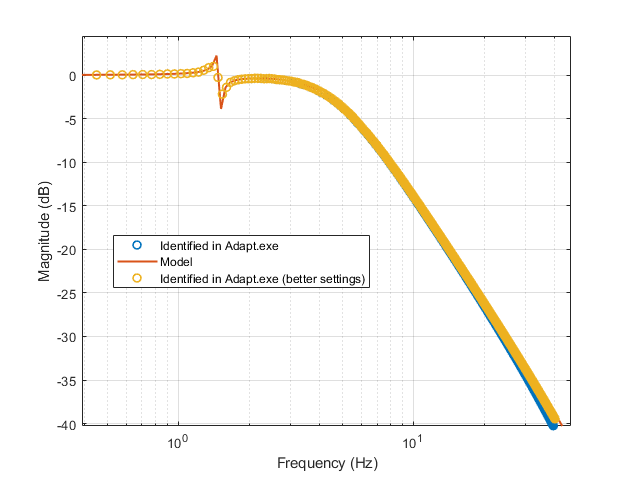
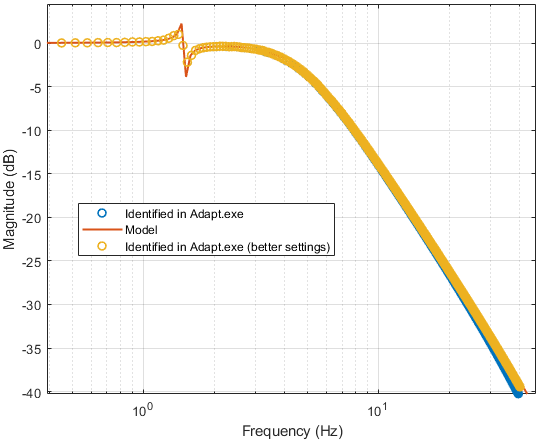
commit

diff --git a/Report/LaTeX_Controlo_de_Plataforma_Sismica/main.tex b/Report/LaTeX_Controlo_de_Plataforma_Sismica/main.tex
@@ -575,20 +575,21 @@ According to \cite{williams2001}, the most widely used experimental methods in t
 
 Real-time hybrid simulation (RTHS) and substructural shake table testing are of special interest since they allow for the evaluation of large and/or complex structures by combining physical and numerical models of substructures, which enhances testing flexibility, enabling improved studies of high-frequency and/or nonlinear behaviours, while also reducing experimental costs. Real-time hybrid simulation method is illustrated in figure \ref{fig_hybrid} for 3 different configurations \citep{Tang2020Performance}. In \cite{Lin2024Implementation} a different configuration is implemented, resorting to onboard actuators, as shown in figure \ref{fig_onboard_actuators}, in order to circumvent the additional stroke length, velocity, and acceleration requirements for ground-based actuators, and the control challenges they pose.
 
-\begin{figure}
-    \centering
-    \includegraphics[width=\linewidth]{Lit_Review/stc2611-fig-0001-m.jpg}
-    \caption{Shaking table-based real-time dynamic hybrid testing systems: (a) upper, (b) middle and (c) lower portion tested physically. Abbreviations: NS, numerical substructure; PS, physical substructure \citep{Tang2020Performance}}
-    \label{fig_hybrid}
-\end{figure}
-
-\begin{figure}
+\begin{figure}[H]
     \centering
     \includegraphics[width=\linewidth]{Lit_Review/onboard_actuators.jpg}
     \caption{Shake table RTHS with (a) ground-based actuators and (b) onboard actuators. \citep{Lin2024Implementation}}
     \label{fig_onboard_actuators}
 \end{figure}
 
+\begin{figure}[H]
+    \centering
+    \includegraphics[width=\linewidth]{Lit_Review/stc2611-fig-0001-m.jpg}
+    \caption{Shaking table-based real-time dynamic hybrid testing systems: (a) upper, (b) middle and (c) lower portion tested physically. Abbreviations: NS, numerical substructure; PS, physical substructure \citep{Tang2020Performance}}
+    \label{fig_hybrid}
+\end{figure}
+
+%\pagebreak
 \section{Shaking Table Control Strategies}
 
 Shaking-table control strategies typically begin with the offline generation of a drive signal using the inverse model of the system and the desired reference motion. This drive signal is then applied to the system, which usually incorporates a linear controller, most commonly a Proportional-Integral-Derivative (PID) controller, using actuator feedback signals (displacement, velocity, or acceleration) \citep{williams2001}, and that is the basis of the OLI control strategy. Indeed, PID controllers remain widely used in most test systems, including shaking-table and hybrid testing platforms \citep{tekeste2021}. However, alternative control approaches have been proposed in the literature, including: Acceleration Trajectory Tracking Control (ATTC) \citep{nakata2010}; Displacement feedforward-feedback controller using an optimal controller \citep{phillips2012}; Model-based feedforward-feedback controller for acceleration tracking \citep{phillips2014}; Minimal control synthesis (MCS) strategy, which is feedback-feedforward adaptive control strategy including the inverse model in line with the reference signal \citep{stoten2001}.
@@ -598,9 +599,9 @@ Shaking-table control strategies typically begin with the offline generation of 
 
 Recent works developed in this field show that advanced control methods such as active disturbance rejection control (ADRC) with adaptive model-based state estimators (AMSE) and extended state observer (ESO), as applied in \cite{Lei2023Disturbance} and illustrated in figure \ref{fig_ADRC-AMSE}, and also nonlinear signal-based control \citep{Enokida2019Nonlinear}, have significantly improved the accuracy and stability of shaking table operations, especially for reproducing complex seismic waveforms and handling nonlinear structural responses. In \cite{Tian2021Offline}, the use of offline iterative control combined with frequency-splitting techniques enabled double-layer shaking tables to achieve both high payload capacity and a wide frequency bandwidth. This advancement allows for the effective testing of high-rigidity structures — such as dams and nuclear power plant facilities - which are characterised by high fundamental frequencies.  Meanwhile, in the development of a budget-focused testing facility, \cite{Parajuli2024Development} adopted a brushed DC motor as the shaking table actuator and applied a proportional-derivative (PD) controller to achieve motion control, offering a cost-effective alternative to more complex systems.
 
-\begin{figure}
+\begin{figure}[H]
     \centering
-    \includegraphics[width=0.7\linewidth]{Lit_Review/ADRC_AMSE.jpg}
+    \includegraphics[width=\linewidth]{Lit_Review/ADRC_AMSE.jpg}
     \caption{Structure diagram of AMSE-ADRC \citep{Lei2023Disturbance}}
     \label{fig_ADRC-AMSE}
 \end{figure}
@@ -632,14 +633,14 @@ In \cite{Zhang2016Robust}, an adaptive sliding mode controller with a reaching l
 
 In \cite{Ryu2017Real-time}, a nonlinear tracking controller based on feedback linearization combined with an extended Kalman filter enabled real-time control of shaking tables subjected to nonlinear hysteretic structural behaviour, maintaining motion fidelity at specific structural locations. %5
 
-\begin{figure}%[H]
-\begin{subfigure}{0.48\textwidth}
+\begin{figure}[H]
+\begin{subfigure}{0.49\textwidth}
     \centering
     \includegraphics[width=\textwidth]{Lit_Review/1-s2.0-S0019057817305037-gr6_lrg.jpg}
     \caption{Complete control system}
 \end{subfigure}
 \hfill
-\begin{subfigure}{0.49\textwidth}
+\begin{subfigure}{0.50\textwidth}
     \centering
     \includegraphics[width=\textwidth]{Lit_Review/1-s2.0-S0019057817305037-gr5_lrg.jpg}
     \caption{Servo controller}
@@ -659,11 +660,12 @@ The hydraulic and control system original supplier for LNEC's shaking tables, MT
     \item Three-Variable Control (TVC), whose block diagram is depicted in figure \ref{fig_TVC}, also known in control theory literature as state variable control \citep{ogata2010}, which combines the displacement, velocity and acceleration feedback \citep{williams2001}. In this implementation only one state variable is the primary control variable, with the others serving only as compensation signals to improve damping and stability;
     \item Adaptive Harmonic Cancellation (AHC), whose block diagram is depicted in figure \ref{fig_AHC}, is suitable for sinusoidal signals (fixed frequency or sweep). This method greatly reduces harmonic distortion of the response of a control system driven by a sinusoidal command. It measures the harmonic distortion directly and adapts in real time the cancelling waveform applied directly to the control system input; 
     \item Adaptive Inverse Control (AIC), whose block diagram is depicted in Figure \ref{fig_AIC}, was presented in \cite{widrow2007} as a control strategy suitable for non-sinusoidal signals in linear systems. This method consists of a control compensation technique that augments a fixed-gain controller to correct closed-loop gain and phase irregularities, thereby improving control fidelity. In addition, in multichannel control systems with cross-coupled dynamics, it significantly reduces cross-coupling disturbances between control channels. The method measures the control system dynamics directly and modifies the control compensation accordingly in real time, making it possible to adapt to changing system dynamics; 
+\pagebreak
     \item Amplitude/Phase Control (APC), whose block diagram is depicted in figure \ref{fig_APC}, is suitable for sinusoidal signals (fixed frequency and sweep) and predominantly linear systems, and often used in conjunction with AHC to reduce distortions in nonlinear systems. This is a control compensation technique that augments a fixed-gain controller to correct for closed-loop amplitude and phase irregularities in order to improve control fidelity. It measures control system dynamics directly and modifies the control compensation accordingly in real time, making it possible to adapt to changing system dynamics; 
     \item Online Iteration (OLI), whose block diagram is depicted in figure \ref{fig_OLI}, is suitable for nonlinear systems and non-sinusoidal waveforms. This is a control technique that repeatedly modifies the command input to a control system on an individual sample-by-sample basis until the control system response is almost a perfect replica of the original desired command. This last strategy was deemed the most appropriate and versatile for earthquake engineering applications, as structures may exhibit nonlinear behaviour or sustain damage during testing, and is the control method currently implemented at LNEC's ST3D.
 \end{itemize}
 
-\begin{figure}%[H]
+\begin{figure}[H]
     \centering
     \includegraphics[width=0.9\textwidth]{MTSsystems/OLI.png}
     \caption{Online Iteration (OLI)}
@@ -1962,7 +1964,7 @@ Initially the simulations were run with the controller set as $G_c(s)=129.93$ V/
 % \begin{equation} \label{eq_pidf_in_s}
 %     G_c(s) = K_p +  \frac{K_i}{s} +  \frac{K_d\cdot s}{T_f\cdot s + 1}
 % \end{equation}
-where the parameters $K_p, K_i, K_d$, and $T_f$, seen in table \ref{tab:pidf_params}, were computed using MATLAB's \textit{pidtune} function, with the tuning option \textit{'DesignFocus'} set to \textit{'reference-tracking'}. These results are labelled as "tuned" in figures \ref{fig_response_spectrum_of_3} through to \ref{fig_Platen_Displacement_Tracking_Error}. The code implementation can be found at the following GitHub repository \href{https://github.com/c-radicallis/Controlo_Plataforma_Sismica/blob/main/uniaxial_table_model/simulation_and_plotting.m}{location}.
+where the parameters $K_p, K_i, K_d$, and $T_f$, seen in table \ref{tab:pidf_params}, were computed using MATLAB's \textit{pidtune} function, with the tuning option \textit{'DesignFocus'} set to \textit{'reference-tracking'}, and target cutoff frequency set to 20Hz. These results are labelled as "tuned" in figures \ref{fig_response_spectrum_of_3} through to \ref{fig_Platen_Displacement_Tracking_Error}. The code implementation can be found at the following GitHub repository \href{https://github.com/c-radicallis/Controlo_Plataforma_Sismica/blob/main/uniaxial_table_model/simulation_and_plotting.m}{location}.
 
 \begin{table}[H]
     \centering
@@ -2179,17 +2181,14 @@ For the high modal frequencies in figure \ref{fig_high_modal_freqs}, the respons
 \subsection{Optimal Control}  \label{sec_Optimal_Control}
 
 \subsubsection{ State Space Model} \label{section_ss_model}
-For the shaking table with a coupled 2-DoF system, the following state space model representation was adopted:
+For the shaking table with a coupled 2DOF system, the following state space representation was adopted, with the state vector $x(t) = [Q_{sv} ,\, F_p ,\, x_T ,\, x_1 ,\, x_2 ,\, \dot{x}_T ,\, \dot{x}_1 ,\, \dot{x}_2 ]^{T}$, and the control action being the signal to the servo-valve $u(t) = i_{sv}$: 
+% \begin{align}
+% \dot{x}(t)  &=  A \cdot x(t) + B \cdot u(t) \\
+% y(t) &= C\cdot x(t) + D\cdot u(t)
+% \end{align} 
+
 \begin{align}
-\dot{x}(t)  &=  A \cdot x(t) + B \cdot u(t) \\
-y(t) &= C\cdot x(t) + D\cdot u(t)
-\end{align}
-With $x(t)$ being the state vector:
-\begin{equation}
-x = [Q_{sv} ,\, F_p ,\, x_T ,\, x_1 ,\, x_2 ,\, \dot{x}_T ,\, \dot{x}_1 ,\, \dot{x}_2 ]^{T}
-\end{equation}
-And the control action $u(t)$ (which is the signal to the servo-valve $i_{sv}$), the state equations are:
-\begin{align}
+    \hspace{-3mm}
     \begin{bmatrix} 
         \dot{Q}_{sv} \\[6pt]
         \dot{F}_p \\[6pt]
@@ -2232,16 +2231,16 @@ And the control action $u(t)$ (which is the signal to the servo-valve $i_{sv}$),
     \end{bmatrix}
     \cdot i_{sv}
 \end{align}
-And the output equation for the platen position $x_T$, it results:
+With the output equation:  
 \begin{equation}
-y(t) = C\cdot x(t) + D\cdot u(t) = x_T \Longrightarrow C = [0\, 0\, 1\, 0\, 0\, 0\, 0\, 0] \, ,  D = 0
+y(t) = [0\, 0\, 1\, 0\, 0\, 0\, 0\, 0] \cdot [Q_{sv} ,\, F_p ,\, x_T ,\, x_1 ,\, x_2 ,\, \dot{x}_T ,\, \dot{x}_1 ,\, \dot{x}_2 ]^{T} = x_T
 \end{equation}
 
 \subsubsection{Evaluating Controllability \& Observability}
 For the above system, controllability and observability matrices were built in MATLAB with \emph{ctrb} and \emph{obsv} commands while using variable precision arithmetic (\emph{vpa}) to evaluate each element to ten thousand significant digits, and were verified to be full rank, thereby implying the existence of an optimal control law.
 
 \subsubsection{LQI Controller}
-For the tracking loop shown in figure \ref{fig_LQI_loop}, where \emph{sys} is the state space model presented in section \ref{section_ss_model}:
+For the tracking loop shown in figure \ref{fig_LQI_loop}, where \emph{sys} is the state space model presented in section \ref{section_ss_model}: \vspace{-5mm}
 \begin{figure}[H]
     \centering
      \includegraphics[width=0.5\linewidth]{LQI/LQI_loop.png}
@@ -2298,22 +2297,20 @@ The optimal state feedback control law $u(t) = K \cdot x_{aug}(t)$ which minimiz
 \begin{equation}\label{eq_LQI_cost_function}
      J(u) = \int ^{\infty}_0 (x_{aug}^{T}(t) Q\,x_{aug}(t) + u^{T}(t) R\, u(t))\, dt 
 \end{equation} 
-was computed using MATLAB \emph{lqi} function, for $R=10^{-9}$ and different $Q$ matrices, for the augmented system, where the state vector $x_{aug}(t) = \left[x(t) \, x_i(t) \right]^\intercal$ incorporates the state $x_i(t)$, which is defined as the integral of the tracking. The state weight matrix $Q$ had every element set to zero, except the entry corresponding to the integrated tracking error $x_i$, which was initially set to $10^3$, which resulted in a similar bandwidth to the tuned PID-F (figure \ref{fig_Bode_LQI_Qe3}), and then increased to $10^9$ (figure \ref{fig_Bode_LQI_Qe9}), for increased bandwidth, which, unlike with the large bandwidth PID-F controllers, the effect of the pole and zero (resonance and anti-resonance) observed on the low frequency was still highly smoothed, resulting in unitary gain at low frequencies, shown in figures \ref{fig_Bode_LQI_Qe9} through to \ref{fig_Platen_Displacement_Tracking_Error_LQI_Qe9}.
-
-The code implementation can be found at the following GitHub repository \href{https://github.com/c-radicallis/Controlo_Plataforma_Sismica/blob/main/uniaxial_table_model/LQR%20Servo/LQI_servo.m}{location}.
+was computed using MATLAB \emph{lqi} function, for $R=10^{-9}$ and different $Q$ matrices, for the augmented system, where the state vector $x_{aug}(t) = \left[x(t) \, x_i(t) \right]^\intercal$ incorporates the state $x_i(t)$, which is defined as the integral of the tracking. The state weight matrix $Q$ had every element set to zero, except the entry corresponding to the integrated tracking error $x_i$ (designated $Q_{x_i}$), which was initially set to $10^3$, which resulted in a similar bandwidth to the tuned PID-F (figure \ref{fig_Bode_LQI_Qe3}), and then increased to $10^9$ (figure \ref{fig_Bode_LQI_Qe9}), for increased bandwidth, which, unlike with the large bandwidth PID-F controllers, the effect of the pole and zero (resonance and anti-resonance) observed on the low frequency was still highly smoothed, resulting in unitary gain at low frequencies, shown in figures \ref{fig_Bode_LQI_Qe9} through to \ref{fig_Platen_Displacement_Tracking_Error_LQI_Qe9}. The code implementation can be found at the following GitHub repository \href{https://github.com/c-radicallis/Controlo_Plataforma_Sismica/blob/main/uniaxial_table_model/LQR%20Servo/LQI_servo.m}{location}.
     
 \begin{figure}[H]
 \begin{minipage}{0.49\textwidth}
     \centering
     \includegraphics[width=\linewidth]{LQI/Sim_Res_Qe3/Bode_of_G_xT_xref.png}
-    \caption{Bode plots of $G_ {xT/x_{\text{ref}}}(s)$ for the default controller, tuned PID-F, and optimal state-feedback controller with $Q=10^3$ (which results in a similar bandwidth to the tuned PID-F).}
+    \caption{Bode plots of $G_ {xT/x_{\text{ref}}}(s)$ for the default controller, tuned PID-F, and optimal state-feedback controller with $Q_{x_i}=10^3$ (which results in a similar bandwidth to the tuned PID-F).}
     \label{fig_Bode_LQI_Qe3} 
 \end{minipage}
 \hfill
 \begin{minipage}{0.49\textwidth}
     \centering
     \includegraphics[width=\linewidth]{LQI/Sim_Res_Qe9/Bode_of_G_xT_xref.png}
-    \caption{Bode plots of $G_ {xT/x_{\text{ref}}}(s)$ for the default controller, tuned PID-F, and optimal state-feedback controller with $Q=10^9$.}
+    \caption{Bode plots of $G_ {xT/x_{\text{ref}}}(s)$ for the default controller, tuned PID-F, and optimal state-feedback controller with $Q_{x_i}=10^9$.}
     \label{fig_Bode_LQI_Qe9}
 \end{minipage}
 \end{figure}
@@ -2391,7 +2388,7 @@ The code implementation can be found at the following GitHub repository \href{ht
 
 \subsubsection{LQG Servo Controller}\label{sec_LQG Servo Controller}
 
-The implementation of the optimal control law requires the availability of all the systems states. For the system under analysis only the pltaform displacement and acceleration measurements are available, meaning that the whole state vector has to be estimated using an observer. To this end, the necessary software was developed in MATLAB using the function \emph{kalman} to compute the stationary Kalman state estimator (\emph{kest} in figure \ref{fig_LQG_inside_controller}) from the augmented system and the process and sensor noise covariance matrices, $Q_n$ and $R_n$ (set as identity matrices).  The optimal controller $k$ was computed using MATLAB \emph{lqi} function, for $R=10^{-9}$ and different $Q$ matrices (The state weight matrix $Q$ had every element set to zero, except the entry corresponding to the integrated tracking error $x_i$, which as initially set to $10^3$).
+The implementation of the optimal control law requires the availability of all the systems states. For the system under analysis only the pltaform displacement and acceleration measurements are available, meaning that the whole state vector has to be estimated using an observer. To this end, the necessary software was developed in MATLAB using the function \emph{kalman} to compute the stationary Kalman state estimator (\emph{kest} in figure \ref{fig_LQG_inside_controller}) from the augmented system and the process and sensor noise covariance matrices, $Q_n$ and $R_n$ (set as identity matrices).  The optimal controller $k$ was computed using MATLAB \emph{lqi} function, for $R=10^{-9}$ and different $Q$ matrices (The state weight matrix $Q$ had every element set to zero, except the entry corresponding to the integrated tracking error $x_i$, which was set to $10^9$).
 
 \begin{figure}[H]
 \begin{subfigure}{0.41\textwidth}
@@ -2412,40 +2409,39 @@ The MATLAB function \emph{lqgtrack} was used to compute the two-degree-of-freedo
 Simulations were run to verify the developed software was in working order for implementation in the real control system, or for use in improved Simulations when data of process and sensor noise covariance were to become available. The results shown in \ref{appendix:LQG Servo_Controller_Simulation_Results}, on  figures \ref{fig_resp_spectrum_LQG_Qe9} through to \ref{fig_Platen_Displacement_LQG_Qe9}, were very much identical to the ones obtained with the LQI controller, due to the fact that the state estimator output converged very fast.
 
 \pagebreak
-\subsection{LNEC's Control Strategy: OLI method}\label{sec_LNEC_method}
+\subsection{LNEC's Control Strategy: OLI method}\label{sec_LNEC_method} \vspace{-2mm}
 In this section the method used at LNEC for controlling the shaking table is described, and the results of numerical simulations from this method are used for comparison with the proposed controllers (PID-F and LQI).  
+\vspace{-5mm}
 
-\subsubsection{The functioning of LNEC's \textit{Adapt} software}
+\subsubsection{The functioning of LNEC's \textit{Adapt} software} \vspace{-2mm}
 As seen in the previous chapters, the use of a proportional controller for tracking the position reference signal does not produce the desired performance on the shaking table in terms of response spectrum. The method considered at LNEC to improve the shaking table performance comes in the form of combined open and closed loop control (Fig. \ref{fig_OLI}), whereby, before every test run, the proprietary software \emph{Adapt}, developed in LabVIEW, through a set of user-defined parameters, identifies the system transfer function, and then computes a modified reference signal, denoted as \emph{driver signal}, which is then used as the reference in the closed-loop control of the shaking table position.
 
-The adaptation process starts with the definition of the input files on the project menu, shown in figure \ref{fig_Adapt_Project_Parameters}:
+The process starts with the definition of the input files on the project menu, shown in figure \ref{fig_Adapt_Project_Parameters}: \vspace{-2mm}
 \begin{figure}[H]
     \centering
     \includegraphics[width=1\linewidth]{Adapt/Adapt_Project_Parameters.png}
     \caption{Adapt Project Parameters menu - In this menu the user configures which files are used for determining the system's FRF, and the reference (or target) signal.}
     \label{fig_Adapt_Project_Parameters}
-\end{figure}
-
+\end{figure} \vspace{-5mm}
 Then, as the modification of the driver signal requires the identification of the frequency response function of the system, the user goes to the system identification menu, shown in figure \ref{Adapt_FRF_Parameters}. In this menu the user sets parameters which are used in the composition of a displacement signal from acceleration and displacement data acquired, usually, from a test run where 3 minutes of pink noise are used as input. The user can apply various filters to the acquired displacement and acceleration signals, and then choose how to synthesize both into a displacement signal. This is done to reject the inaccurate readings of position sensors at high frequencies, and of acceleration sensors at low frequencies, and combine the information of both to generate a more accurate displacement signal across the whole frequency spectrum.  The user also defines the settings for the computation of the FRF. 
 
 The driver generation menu, shown in figure \ref{fig_Adapt_INV_Panel}, is used to generate new driver signals. It takes as inputs the original reference (referred to as \emph{target}), the driver signal used in the previous test run, it's measured displacements and acceleration at the shaking table, and user-defined parameters which affect which parts of the signal are modified, and by how much they're modified, it then outputs the driver to be used in following test run.
-\begin{figure}
+\begin{figure}[H]
     \centering
     \includegraphics[width=\linewidth]{Adapt/Adapt_FRF_Parameters.png}
     \caption{Adapt FRF Parameters menu}
     \label{Adapt_FRF_Parameters}
 \end{figure}
-
-\begin{figure}
+%\vspace{-15mm}
+\begin{figure}[H]
     \centering
     \includegraphics[width=\linewidth]{Adapt/Adapt_INV_Panel.png}
     \caption{Adapt INV Panel menu}
     \label{fig_Adapt_INV_Panel}
 \end{figure}
 
-
-\subsubsection{Simulating the driver adaptation process}
-
+\clearpage
+\subsubsection{Simulating the driver adaptation process}\label{sec_Simulating_OLI}
 For the simulations in this section, the 2DOF system coupled to the platen with both masses set to 2000 kg, and the modal properties: $f_1 = 1.5 Hz$, $\zeta_1  = 0.02$, $f_2 = 6 Hz$, $\zeta_2 = 0.05$, was used to compute the results and evaluate the performance of the system with the LNEC's method
 
 \paragraph{System Identification}
@@ -2459,68 +2455,68 @@ The \emph{Adapt} target file (.tgt) contains displacement and acceleration signa
 \paragraph{Generating the adapted driver}
 The first driver (driver zero) was generated using just the target file. This driver was then converted to text format using the previously mentioned Python functions, and then input into the Matlab model. From the simulation displacement output, the acceleration was computed using a second order central difference. This data was then written to \emph{.acq} format, and used, along with the target file, to generate driver 1  in \emph{Adapt.exe}. The same process was repeated to generate subsequent driver until the output response spectra was deemed to be sufficiently close to the target response spectra.
 
-\paragraph{Discussion of Method \& Results}
-For the seismic signal tested in this section (L'Aquila reduced scale earthquake), the response spectra from adapted drivers underperforms compared to the PID-F controller, and even more so when compared to the optimal controller. 
+\paragraph{Application example: Discussion of Method \& Results} \label{sec_OLI_Application_example}
+In this application example of the OLI method, the target signal is the L'Aquila reduced-scale earthquake, and the test specimen modal properties are those described in Section~\ref{sec_Simulating_OLI}. For the driver generation settings, which were kept throughout, coherence threshold was set to 0.9, maximum frequency compensation was set to 25Hz, and the correction factor was set to 0.65. For the identification, various settings were used, while window overlap was set to 0.5 and preserved as such, and the results are shown in figure \ref{bode_compare}, where a large number of windows results in a poor identification; in figure \ref{bode_compare_better_id}, where using 1024 Low Sidelobe windows results in an improved approximation of the transfer function, but identification still is unable to capture the resonance/anti-resonance at 1.5 Hz; and in figure \ref{FRFvsModelTF}, where the increasedg the width of the windows, in this case, using 20 Hanning windows results in a much better identification, now capturing the resonance/anti-resonance at around 1.5 Hz (however, the use of so few windows likely wouldn't work if the identification was being done with noisy experimental data).
 
-In figure \ref{Response_Spectra_better_id}, the identified FRF (figure \ref{bode_compare_better_id}) used for adapting the drivers  is closer to the model, resulting in a better adaptation of the driver signal, but it still requires 3 iterations to somewhat achieve the target response spectrum, and still doesn't perform as well as the optimal and PID-F controllers.
+The identified FRF which largely matches the model, shown in figure \ref{bode_compare_better_id}, yields adapted drivers which mostly converge to the target response spectra. Nevertheless, three iterations are still required to approximate the target, and the method does not perform as well as the LQI and PID-F controllers.
 
-\begin{figure}[H]
-\begin{minipage}{0.49\textwidth}
-In figure \ref{Response_Spectra_2drivers}, the identified FRF (figure \ref{bode_compare}) used for adapting the drivers isn't as good as in the other case (figure \ref{bode_compare_better_id}), due to the settings defined by the user in \emph{Adapt}, and the resulting response spectrum after three iterations isn't very satisfactory. This shows the one of limitations of this method: It depends on the user to make the right decisions, but the user isn't perfect and there is no guarantee he'll opt for the best settings. Another limitation is the fact that the user does not have exact knowledge of the best settings, because unlike in this example, where the system is known and the FRF is made to match it (Figure \ref{bode_compare_better_id}), in reality this is not possible, leaving the user to make an informed guess based on the information displayed in \emph{Adapt} and past experience.
-\end{minipage}
-\hfill
-\begin{minipage}{0.49\textwidth}
-     \centering
-    \includegraphics[width=\linewidth]{Adapt/bode_compare.png}
-    \caption{Identified frequency response function from \emph{Adapt} (using "bad" settings) versus the model from Section \ref{Modelling Shaking Table Dynamics}}
-    \label{bode_compare}
-\end{minipage}
-\end{figure}
-
-\begin{figure}[H]
-\begin{minipage}{0.49\textwidth}
-    \includegraphics[width=\linewidth]{Adapt/bode_compare_better_id.png}
-    \caption{Frequency response function of identified system using 1024 Low Sidelobe windows results in a rougher approximation of the transfer function, but handles noisy data better.}
-    \label{bode_compare_better_id}
-\end{minipage}
-\hfill
-\begin{minipage}{0.48\textwidth}
-    \includegraphics[width=\linewidth]{Adapt/FRFvsModelTF.png}
-    \caption{Frequency response function of identified system using 20 Hanning windows results in a much better approximation of the transfer function, but likely wouldn't work as well if using noisy sensor data.}
-    \label{FRFvsModelTF}
-\end{minipage}
-\end{figure}
-
+The identified FRF (Figure \ref{bode_compare}) is of lower quality due to the settings selected in \emph{Adapt}, and the resulting response spectrum, shown in figure \ref{Response_Spectra_2drivers}, after three iterations is unsatisfactory. This highlights two key limitations of the method. First, the outcome depends on the user selecting appropriate settings, yet no automatized and systematic procedure exists to guarantee an optimal choice of settings. Second, unlike in this simulation study where the true system is known and the FRF can be verified against it (Figure \ref{bode_compare_better_id}), in practice the user has no such reference, and must instead rely on an informed judgement based on the information available in \emph{Adapt} and other knowledge of the shaking table and test specimen dynamics.
 
 \begin{figure}[H]
     \centering
+\begin{subfigure}[t]{0.49\textwidth}
+     \centering
+    \includegraphics[width=\linewidth]{Adapt/bode_compare.png}
+    \caption{2048 Low Sidelobe windows}
+    \label{bode_compare}
+\end{subfigure}
+\hfill
+\begin{subfigure}[t]{0.49\textwidth}
+    \includegraphics[width=\linewidth]{Adapt/bode_compare_better_id.png}
+    \caption{1024 Low Sidelobe windows}
+    \label{bode_compare_better_id}
+\end{subfigure}
+\\
+\begin{subfigure}{0.5\textwidth}
+    \includegraphics[width=\linewidth]{Adapt/FRFvsModelTF.png}
+    \caption{20 Hanning windows}
+    \label{FRFvsModelTF}
+\end{subfigure}
+\caption{Bode plot of model of the system (from Section \ref{Modelling Shaking Table Dynamics}) used in the simulations, and the identified frequency response function in \emph{Adapt} for various identification settings}
+\end{figure}
+
+\pagebreak
+\begin{figure}[H]
+    \centering
     \includegraphics[width=1\linewidth]{Adapt/Response_Spectra.png}
-    \caption{Target response spectrum and the resulting response spectrum from tuned PID-F, optimal controller, and the 3 iterations of adapted drivers resulting from FRF shown in figure \ref{bode_compare}.}
+    \caption{Shaking table response spectra: Target, tuned PID-F controller, LQI controller, and the 3 iterations of OLI method using FRF from the worse identification (shown in figure \ref{bode_compare})}
     \label{Response_Spectra_2drivers}
 \end{figure}
 
 \begin{figure}[H]
     \centering
     \includegraphics[width=1\linewidth]{Adapt/Response_Spectra_better_id.png}
-    \caption{Target response spectrum and the resulting response spectrum from tuned PID-F, optimal controller, and the 3 iterations of adapted drivers resulting from FRF shown in figure \ref{bode_compare_better_id}.}
+    \caption{Shaking table response spectra: Target, tuned PID-F controller, LQI controller, and the 3 iterations of OLI method using FRF from the better identification (shown in figure \ref{bode_compare_better_id})}
     \label{Response_Spectra_better_id}
 \end{figure}
 
 \section{Comparing Control Strategy Performance for Benchmark Seismic Signals}\label{sec_Comparing_Control_Strategies}
 
-and the optimal controller with $Q=10^3$ (as in Figure \ref{fig_Bode_LQI_Qe3}). The code implementation can be found at the following GitHub repository \href{https://github.com/c-radicallis/Controlo_Plataforma_Sismica/blob/main/uniaxial_table_model/Adapting_Driver_Signal/sim_plot_adapted_drivers.m}{location}.
+A set of recorded earthquake ground-motion time histories covering a wide range of seismic characteristics are considered in this study, namely \citep{narasimhan2006}: i) 1940 Imperial Valley earthquake, El Centro Fault Normal (FN) and Fault Parallel (FP) records; ii) 1992 Erzikan earthquake, Erzikan North-South (NS) and East-West (EW) record; iii) 1995 Kobe earthquake, Kobe NS and EW records; iv) 2009 L'Aquila earthquake; v) 1994 Northridge earthquake, Newhall FN and FP records; vi) 1994 Northridge earthquake, Rinaldi FN and FP records; vii) 1994 Northridge earthquake, Sylmar FN and FP records; viii) 1976 Friuli earthquake, Tolmezzo record.
+
+The 2DOF system coupled to the platen had the modal properties described in Section \ref{sec_Simulating_OLI}. For the OLI method the driver adaptation settings were kept as described in Section \ref{sec_OLI_Application_example}. The PID-F controller was tuned with the settings described in Section \ref{sec_Tuned_PID-F}. For the LQI controller, the performance index (Eq. \eqref{eq_LQI_cost_function}) had $R=10^{-9}$, and $Q$ with every entry set to zero, except $Q_{x_i}=10^3$, as to have a similar bandwidth to the PID-F controller for the sake of comparing both (see figure \ref{fig_Bode_LQI_Qe3}). The code implementation, along with the developed Python and MATLAB functions for format conversion between LNEC test files (\emph{.ltf / .tgt / .drv / .acq}) and standard text files, can be found at the following GitHub repository \href{https://github.com/c-radicallis/Controlo_Plataforma_Sismica/blob/main/uniaxial_table_model/Adapting_Driver_Signal/sim_plot_adapted_drivers.m}{location}.
 
 \begin{figure}[H]
     \centering
     \includegraphics[width=\linewidth]{Adapt/excel_accel_resp_spectrum.png}
-    \caption{Acceleration response spectrum MSE for various seismic signals. (For the Erzikan earthquake (figure \ref{erzikan_4th_N}), an additional driver adaption iteration was performed, and the results shown are for the resulting 4th driver)}
+    \caption{Acceleration response spectrum MSE for various earthquakes. (For the Erzikan earthquake (figure \ref{erzikan_4th_N}), an additional driver adaption iteration was performed, and the results shown are for the resulting 4th driver)}
     \label{excel_accel_resp_spectrum}
 \end{figure}
 
 \begin{figure}[H]
     \centering
     \includegraphics[width=\linewidth]{Adapt/excel_disp_resp_spectrum.png}
-    \caption{Displacement response spectrum MSE for various seismic signals. (For the Erzikan earthquake (figure \ref{erzikan_4th_N}), an additional driver adaption iteration was performed, and the results shown are for the resulting 4th driver)}
+    \caption{Displacement response spectrum MSE for various earthquakes. (For the Erzikan earthquake (figure \ref{erzikan_4th_N}), an additional driver adaption iteration was performed, and the results shown are for the resulting 4th driver)}
     \label{excel_disp_resp_spectrum}
 \end{figure}
 
@@ -2685,7 +2681,7 @@ The dynamic model identification of the plant is needed for tuning the controlle
 
 \subsection{Control Strategies}
 
-\subsubsection{LNEC's driver signal iterative adaptation process}
+\subsubsection{LNEC's driver signal iterative adaptation process (OLI method)}
 
 This control technique is known as Online Iteration (OLI) [MTS Systems], as it iteratively modifies the command input on an individual sample-by-sample basis until the system response is close to the target. 
 This method compensates the next drive signal with a drive correction signal which is computed from filtering the previous iteration error with the inverse model of the closed-loop frequency response function. The closed-loop frequency response function (FRF) is estimated via a nonparametric identification method by spectral analysis. To this end, the user interface of the driver iteration program allows many different settings for the identification. For the simulations of the OLI method, the identification used the same experimentally acquired data with the band-limited pink noise, and the FRF identification settings use Hanning window with the number of windows set to 8192 with 97\% overlap, and the FRF mode is set to H3. During the driver adaptation process, settings such as correction factor and maximum frequency compensation are adjusted as needed, while the coherence threshold is left at 90\%.
@@ -2708,7 +2704,7 @@ The simulations with the LQI controller use the plant model resulting from the t
 
 \subsection{Performance Evaluation}
 
-A set of recorded earthquake ground-motion time histories covering a wide range of seismic characteristics are considered in this study, namely \citep{narasimhan2006}: i) 1940 Imperial Valley earthquake, El Centro Fault Normal (FN) and Fault Parallel (FP) records; ii) 1992 Erzikan earthquake, Erzikan North-South (NS) and East-West (EW) record; iii) 1995 Kobe earthquake, Kobe NS and EW records; iv) 2009 L'Aquila earthquake; v) 1994 Northridge earthquake, Newhall FN and FP records; vi) 1994 Northridge earthquake, Rinaldi FN and FP records; vii) 1994 Northridge earthquake, Sylmar FN and FP records; viii) 1976 Friuli earthquake, Tolmezzo record. To ensure that the imposed inputs remained within the displacement capacity of the shaking table, appropriate scale factors were computed by taking the quotient of maximum desired displacement of 4 mm with the maximum displacement of any direction of the seismic signal (rounded to 3 decimal places) and then applied to the ground-motion signals. 
+The same set of earthquakes as in Section \ref{sec_Comparing_Control_Strategies} was used to evaluate the performance of each control strategy. To ensure that the imposed inputs remained within the displacement capacity of the shaking table, appropriate scale factors were computed by taking the quotient of maximum desired displacement of 4 mm with the maximum displacement of any direction of the seismic signal (rounded to 3 decimal places) and then applied to the ground-motion signals. 
 The performance of each control method is evaluated through the acceleration and displacement response spectrum mean squared error (MSE) for every input action described in the previous section. The acceleration response spectrum is computed from 0.1 Hz to 30 Hz for 500 logarithmically spaced points, and the displacement response spectrum is computed for the same frequencies, however, for only the first 344 points, equating to a range from 0.1 Hz to 5.04 Hz.
 
 

diff --git a/uniaxial_table_model/Adapting_Driver_Signal/sim_plot_adapted_drivers.m b/uniaxial_table_model/Adapting_Driver_Signal/sim_plot_adapted_drivers.m
@@ -3,8 +3,14 @@ addpath 'C:\Users\afons\OneDrive - Universidade de Lisboa\Controlo de Plataforma
 %%
 launch_Adapt =0; % Set to 1 to lauch Adapt.exe
 return_on = 1; % Set to 1 for execution to stop before adapting drivers, or set to 0 if the adapted drivers have already been generated
+%
+opts1=bodeoptions('cstprefs');opts1.FreqUnits = 'Hz';opts1.XLim={[1 40]};opts1.PhaseWrapping="on";opts1.PhaseWrappingBranch=-360;
+opts1.PhaseVisible='off'; 
+opts1.Title.String={'Bode Plot - Closed Loop'}
+opts1.YLim={[-40 5]};
+ Ts = 0.005;
 
-% Load target
+%% Load target
 folder  =  'C:\Users\afons\OneDrive - Universidade de Lisboa\Controlo de Plataforma Sismica\uniaxial_table_model\Adapting_Driver_Signal\PRJ_Sylmar';
 target = 'sylmar.tgt'; 
 addpath(folder);